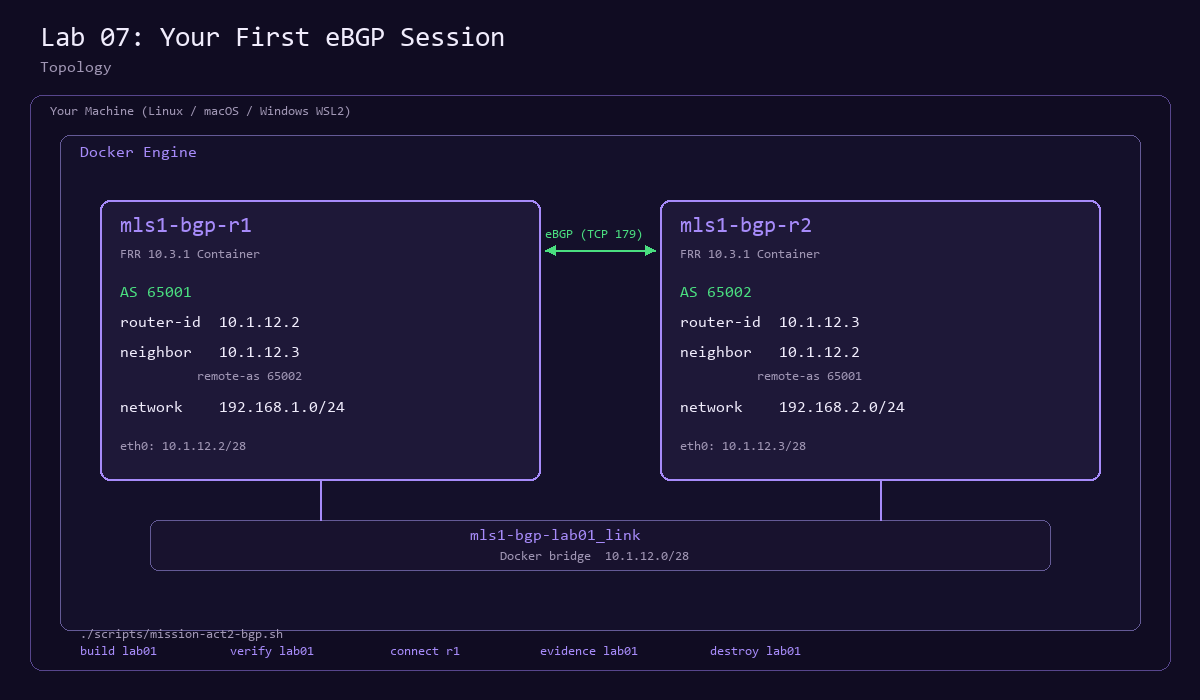
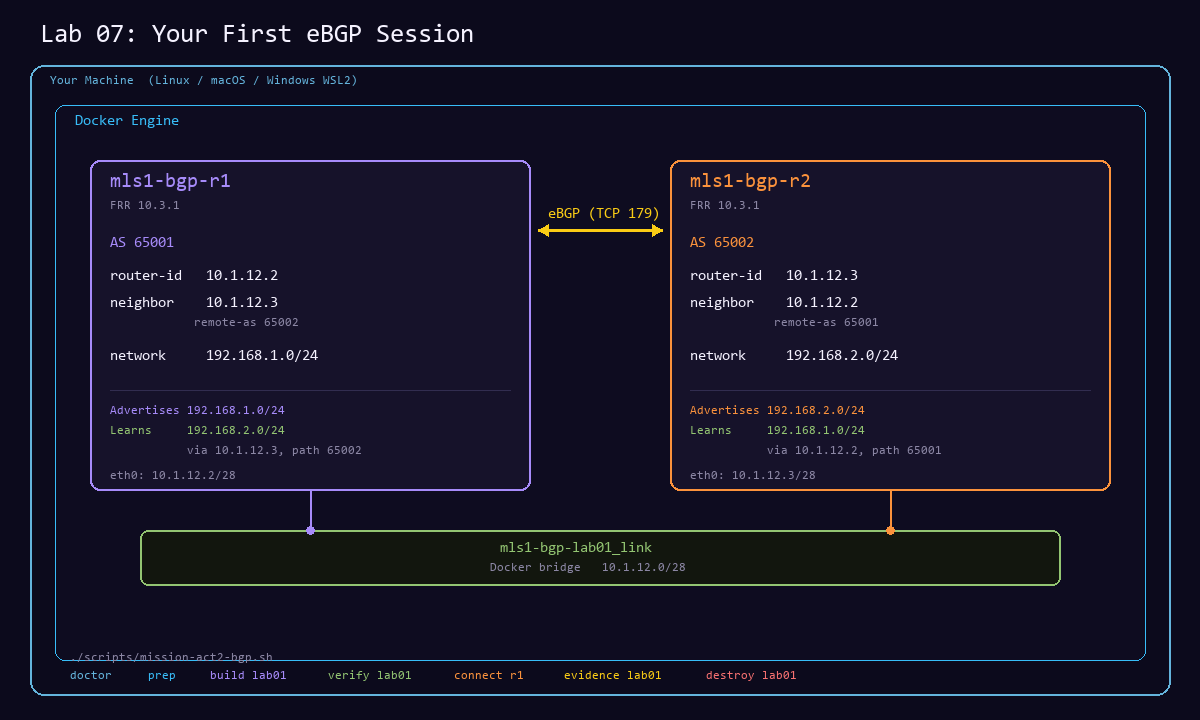
docs: multi-color topology diagram and polished lab guide (#12)
- Diagram uses distinct colors per layer (blue host, cyan Docker, purple r1, orange r2, green bridge, yellow eBGP)
- Removed received-routes command (requires soft-reconfig not enabled by default)
- Clarified evidence contract language
- Added bullet summary below topology image
- Fixed minor wording throughout

diff --git a/docs/lab-07-first-ebgp-session.md b/docs/lab-07-first-ebgp-session.md
@@ -36,7 +36,10 @@ Pull the FRR image once (about 200 MB):
 
 ![Lab 07 Topology](assets/lab-07-topology.png)
 
-Two FRR routers run inside Docker containers connected by a bridge network. Each router belongs to a different Autonomous System and advertises one prefix via eBGP. The Docker Compose project uses the `mls1-bgp-lab01` prefix so all resources are scoped and removable with one command.
+- **r1** runs in AS 65001, advertises 192.168.1.0/24, and peers with r2 at 10.1.12.3.
+- **r2** runs in AS 65002, advertises 192.168.2.0/24, and peers with r1 at 10.1.12.2.
+- Both containers sit on a single Docker bridge network (10.1.12.0/28).
+- The Docker Compose project uses the `mls1-bgp-lab01` prefix so all resources are scoped and removable with one command.
 
 ## Concepts
 
@@ -101,7 +104,6 @@ You are now inside the FRR `vtysh` shell. Run these commands and record the outp
 ```text
 show bgp summary
 show ip bgp
-show ip bgp neighbors 10.1.12.3 received-routes
 ```
 
 Key observations on r1:
@@ -109,8 +111,8 @@ Key observations on r1:
 | Field | Expected value |
 |-------|----------------|
 | State/PfxRcd for 10.1.12.3 | 1 (session is Established, one prefix received) |
-| BGP table entry for 192.168.1.0/24 | Next hop 0.0.0.0, locally originated |
-| BGP table entry for 192.168.2.0/24 | Next hop 10.1.12.3, path 65002 i |
+| BGP table entry for 192.168.1.0/24 | Next hop 0.0.0.0, weight 32768, locally originated |
+| BGP table entry for 192.168.2.0/24 | Next hop 10.1.12.3, AS path "65002 i" |
 
 Type `exit` to leave vtysh. Then connect to r2 and repeat:
 
@@ -121,7 +123,6 @@ Type `exit` to leave vtysh. Then connect to r2 and repeat:
 ```text
 show bgp summary
 show ip bgp
-show ip bgp neighbors 10.1.12.2 received-routes
 ```
 
 r2 is the mirror: it sees 192.168.1.0/24 learned from AS 65001 with next hop 10.1.12.2.
@@ -146,9 +147,9 @@ This saves timestamped files under `results/`:
 
 | Question | Where to look |
 |----------|---------------|
-| What did the router report? | `show bgp summary` shows session state and prefix count |
-| What state does the routing table expose? | `show ip bgp` shows the RIB with next hops and AS paths |
-| What proves the prefix was learned from the peer? | `show ip bgp` entries with a non-local peerId and AS path confirm the route crossed an AS boundary |
+| What did the router report? | `show bgp summary` shows session state and prefix count. |
+| What state does the routing table expose? | `show ip bgp` shows the full RIB with next hops, weights and AS paths. |
+| What proves the prefix was learned from the peer? | A BGP table entry with a remote next hop and an AS path containing the peer's AS number. |
 
 ## Explain
 
@@ -156,11 +157,11 @@ After reviewing the evidence:
 
 1. Why does 192.168.1.0/24 on r1 have next hop 0.0.0.0 and weight 32768?
 2. Why does 192.168.2.0/24 on r1 show AS path "65002 i"?
-3. What would happen if you changed r2's `remote-as` from 65001 to 65001**1** (a typo)?
+3. What would happen if you changed r2's `remote-as` to a wrong AS number?
 
 ## Done when
 
-You can cite the BGP summary showing Established state, point to the AS path proving the route crossed an AS boundary, and explain that this evidence proves only this isolated lab session.
+You can cite the BGP summary showing Established state, point to the AS path proving the route crossed an AS boundary, and explain what this isolated lab session can and cannot prove.
 
 ## Cleanup
 
@@ -168,7 +169,7 @@ You can cite the BGP summary showing Established state, point to the AS path pro
 ./scripts/mission-act2-bgp.sh destroy lab01
 ```
 
-This removes both containers and the Docker bridge network.
+This removes both containers and the Docker bridge network. Your evidence in `results/` is preserved.
 
 ## Study links
 
